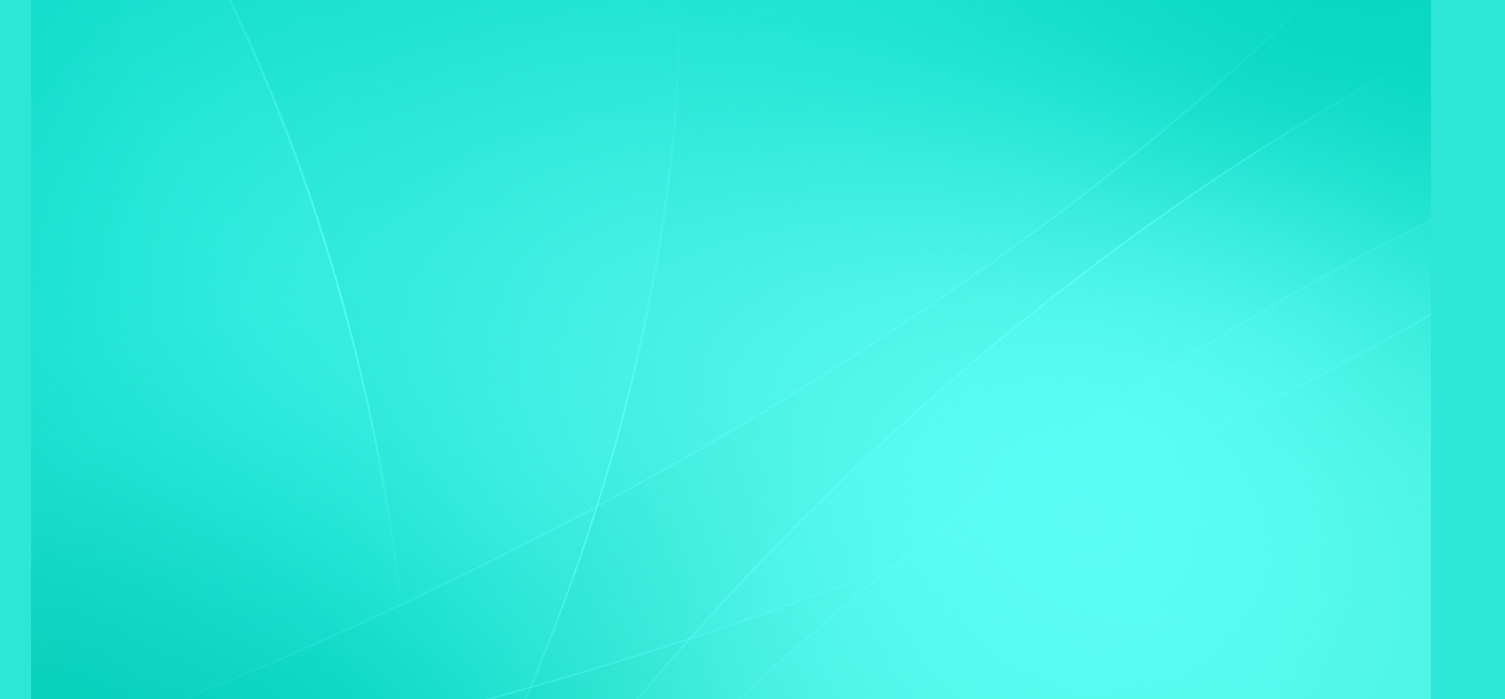
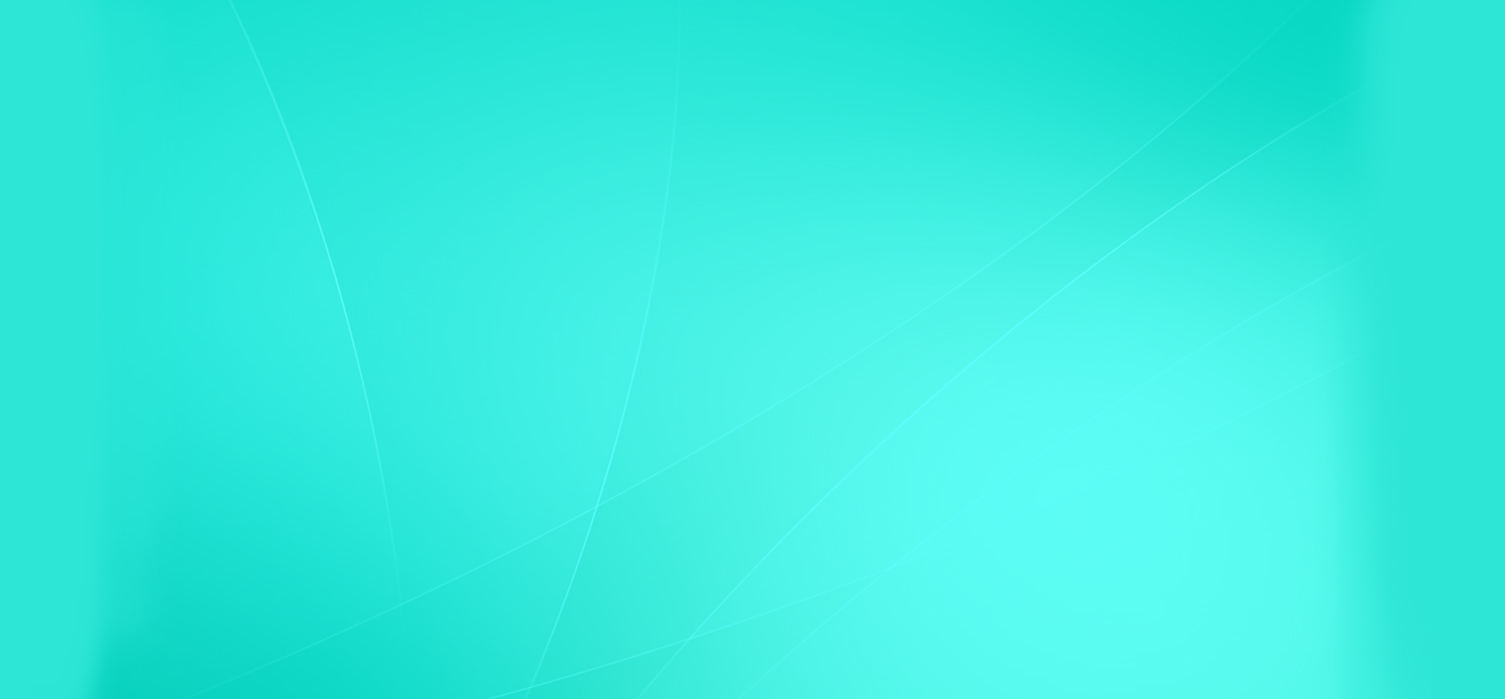
background fixes

diff --git a/css/style.css b/css/style.css
@@ -10,6 +10,27 @@ input:focus {
   position: relative; }
 
 .orange_button {
+  background: #ffc70a;
+  background: -moz-linear-gradient(top, #ffc70a 0%, #ff9600 100%);
+  background: -webkit-gradient(linear, left top, left bottom, color-stop(0%, #ffc70a), color-stop(100%, #ff9600));
+  background: -webkit-linear-gradient(top, #ffc70a 0%, #ff9600 100%);
+  background: -o-linear-gradient(top, #ffc70a 0%, #ff9600 100%);
+  background: -ms-linear-gradient(top, #ffc70a 0%, #ff9600 100%);
+  background: linear-gradient(to bottom, #ffc70a 0%, #ff9600 100%);
+  filter: progid:DXImageTransform.Microsoft.gradient(startColorstr='#ffc70a', endColorstr='#ff9600',GradientType=0 );
+  font-size: 20px;
+  color: white;
+  border: none;
+  border-top: 1px solid #ffe411;
+  border-radius: 5px;
+  line-height: 2;
+  box-shadow: 0px 1px 3px 1px #02264e;
+  text-transform: uppercase;
+  cursor: pointer;
+  padding: 0px 55px;
+  font-family: NeoSansBold; }
+
+.orange_button:hover {
   background: #ff9400;
   background: -moz-linear-gradient(left, #ff9400 0%, #ffc30b 50%, #ff9400 100%);
   background: -webkit-gradient(linear, left top, right top, color-stop(0%, #ff9400), color-stop(50%, #ffc30b), color-stop(100%, #ff9400));
@@ -17,18 +38,7 @@ input:focus {
   background: -o-linear-gradient(left, #ff9400 0%, #ffc30b 50%, #ff9400 100%);
   background: -ms-linear-gradient(left, #ff9400 0%, #ffc30b 50%, #ff9400 100%);
   background: linear-gradient(to right, #ff9400 0%, #ffc30b 50%, #ff9400 100%);
-  filter: progid:DXImageTransform.Microsoft.gradient(startColorstr='#ff9400', endColorstr='#ff9400',GradientType=1 );
-  font-size: 20px;
-  color: white;
-  border: none;
-  border-top: 1px solid #ffe411;
-  border-radius: 5px;
-  line-height: 2 !important;
-  box-shadow: 0px 1px 3px 1px #02264e;
-  text-transform: uppercase;
-  cursor: pointer;
-  padding: 0px 55px;
-  font-family: NeoSansBold; }
+  filter: progid:DXImageTransform.Microsoft.gradient(startColorstr='#ff9400', endColorstr='#ff9400',GradientType=1 ); }
 
 .top_line {
   height: 8px;
@@ -149,7 +159,7 @@ input:focus {
         margin-bottom: 10px;
         border: 1px solid #bfbfbf;
         border-left: none;
-        line-height: 2; }
+        line-height: 2.3; }
       .pick_flat .pick_wrap .request label {
         display: inline-block;
         width: 29px;
@@ -193,6 +203,11 @@ input:focus {
         background: url(/img/request_lock.png) no-repeat 0px center; }
       .pick_flat .pick_wrap .request .clock {
         background: url(/img/request_clock.png) no-repeat 0px center; }
+      .pick_flat .pick_wrap .request .orange_button {
+        display: inline-block;
+        line-height: 1;
+        padding-top: 7px;
+        padding-bottom: 7px; }
     .pick_flat .pick_wrap .discount {
       text-align: center;
       color: white;
@@ -208,17 +223,14 @@ input:focus {
         background-repeat: no-repeat;
         background-position: center center;
         width: 100%;
-        height: 150px;
+        height: 155px;
         top: 0px;
         left: 0px; }
 
 .cooperate {
   background-color: #2ee6d6;
-  background-image: url(/img/cooperate_bg.jpg);
-  background-repeat: no-repeat;
-  background-position: center 270px;
   text-align: center;
-  height: 1218px; }
+  height: 533px; }
   .cooperate .cooperate_header {
     background: url(/img/ribbon.png) no-repeat center 30px;
     height: 90px;
@@ -278,39 +290,45 @@ input:focus {
       font-family: NeoSansUltra;
       width: 900px; }
 
-.flats h3 {
-  font-size: 30px;
-  text-align: left;
-  font-weight: 300;
-  color: white;
-  text-shadow: 1px 1px 2px #2fcab2;
-  margin-top: 20px;
-  margin-left: 180px; }
-.flats h2 {
-  font-size: 28px;
-  font-family: NeoSansUltra;
-  color: #ffd119;
-  text-shadow: 1px 2px 3px #29bdaa;
-  margin-bottom: 20px;
-  text-transform: uppercase;
-  margin-left: 375px;
-  text-align: left; }
-.flats .flat_rooms {
-  background-color: #71f0de;
-  width: 450px;
-  line-height: 90px;
-  display: inline-block;
-  margin: 0px 50px 25px 50px;
-  border-radius: 5px;
-  border: 1px dashed white;
-  font-size: 20px;
-  color: #4d4d4d;
-  font-family: NeoSansBold; }
-  .flats .flat_rooms span {
-    font-size: 45px;
-    color: #ff9500;
-    font-weight: 800;
-    text-shadow: 0px 1px 1px #d8903c; }
+.flats {
+  background-image: url(/img/cooperate_bg.jpg);
+  background-repeat: no-repeat;
+  background-position: center 0px;
+  background-color: #2ee6d6;
+  text-align: center; }
+  .flats h3 {
+    font-size: 30px;
+    text-align: left;
+    font-weight: 300;
+    color: white;
+    text-shadow: 1px 1px 2px #2fcab2;
+    padding-top: 20px;
+    margin-left: 180px; }
+  .flats h2 {
+    font-size: 28px;
+    font-family: NeoSansUltra;
+    color: #ffd119;
+    text-shadow: 1px 2px 3px #29bdaa;
+    margin-bottom: 20px;
+    text-transform: uppercase;
+    margin-left: 375px;
+    text-align: left; }
+  .flats .flat_rooms {
+    background-color: #71f0de;
+    width: 450px;
+    line-height: 90px;
+    display: inline-block;
+    margin: 0px 50px 25px 50px;
+    border-radius: 5px;
+    border: 1px dashed white;
+    font-size: 20px;
+    color: #4d4d4d;
+    font-family: NeoSansBold; }
+    .flats .flat_rooms span {
+      font-size: 45px;
+      color: #ff9500;
+      font-weight: 800;
+      text-shadow: 0px 1px 1px #d8903c; }
 
 .partners {
   height: 550px;

diff --git a/css/style.sass b/css/style.sass
@@ -10,6 +10,27 @@ input:focus
 	position: relative
 
 .orange_button
+	background: rgb(255,199,10) /* Old browsers */
+	background: -moz-linear-gradient(top,  rgba(255,199,10,1) 0%, rgba(255,150,0,1) 100%) /* FF3.6+ */
+	background: -webkit-gradient(linear, left top, left bottom, color-stop(0%,rgba(255,199,10,1)), color-stop(100%,rgba(255,150,0,1))) /* Chrome,Safari4+ */
+	background: -webkit-linear-gradient(top,  rgba(255,199,10,1) 0%,rgba(255,150,0,1) 100%) /* Chrome10+,Safari5.1+ */
+	background: -o-linear-gradient(top,  rgba(255,199,10,1) 0%,rgba(255,150,0,1) 100%) /* Opera 11.10+ */
+	background: -ms-linear-gradient(top,  rgba(255,199,10,1) 0%,rgba(255,150,0,1) 100%) /* IE10+ */
+	background: linear-gradient(to bottom,  rgba(255,199,10,1) 0%,rgba(255,150,0,1) 100%) /* W3C */
+	filter: progid:DXImageTransform.Microsoft.gradient( startColorstr='#ffc70a', endColorstr='#ff9600',GradientType=0 ) /* IE6-9 */
+	font-size: 20px
+	color: #fff
+	border: none
+	border-top: 1px solid #ffe411
+	border-radius: 5px
+	line-height: 2
+	box-shadow: 0px 1px 3px 1px #02264e
+	text-transform: uppercase
+	cursor: pointer
+	padding: 0px 55px
+	font-family: NeoSansBold
+
+.orange_button:hover
 	background: rgb(255,148,0) /* Old browsers */
 	background: -moz-linear-gradient(left,  rgba(255,148,0,1) 0%, rgba(255,195,11,1) 50%, rgba(255,148,0,1) 100%) /* FF3.6+ */
 	background: -webkit-gradient(linear, left top, right top, color-stop(0%,rgba(255,148,0,1)), color-stop(50%,rgba(255,195,11,1)), color-stop(100%,rgba(255,148,0,1))) /* Chrome,Safari4+ */
@@ -18,17 +39,6 @@ input:focus
 	background: -ms-linear-gradient(left,  rgba(255,148,0,1) 0%,rgba(255,195,11,1) 50%,rgba(255,148,0,1) 100%) /* IE10+ */
 	background: linear-gradient(to right,  rgba(255,148,0,1) 0%,rgba(255,195,11,1) 50%,rgba(255,148,0,1) 100%) /* W3C */
 	filter: progid:DXImageTransform.Microsoft.gradient( startColorstr='#ff9400', endColorstr='#ff9400',GradientType=1 ) /* IE6-9 */
-	font-size: 20px
-	color: #fff
-	border: none
-	border-top: 1px solid #ffe411
-	border-radius: 5px
-	line-height: 2 !important
-	box-shadow: 0px 1px 3px 1px #02264e
-	text-transform: uppercase
-	cursor: pointer
-	padding: 0px 55px
-	font-family: NeoSansBold
 
 .top_line
 	height: 8px
@@ -153,7 +163,7 @@ input:focus
 				margin-bottom: 10px
 				border: 1px solid #bfbfbf
 				border-left: none
-				line-height: 2
+				line-height: 2.3
 			label
 				display: inline-block
 				width: 29px
@@ -197,6 +207,11 @@ input:focus
 				background: url(/img/request_lock.png) no-repeat 0px center
 			.clock
 				background: url(/img/request_clock.png) no-repeat 0px center
+			.orange_button
+				display: inline-block
+				line-height: 1
+				padding-top: 7px
+				padding-bottom: 7px
 		.discount
 			text-align: center
 			color: #fff
@@ -212,16 +227,13 @@ input:focus
 				background-repeat: no-repeat
 				background-position: center center
 				width: 100%
-				height: 150px
+				height: 155px
 				top: 0px
 				left: 0px
 .cooperate
 	background-color: #2ee6d6
-	background-image: url(/img/cooperate_bg.jpg)
-	background-repeat: no-repeat
-	background-position: center 270px
 	text-align: center
-	height: 1218px
+	height: 533px
 	.cooperate_header
 		background: url(/img/ribbon.png) no-repeat center 30px
 		height: 90px
@@ -281,13 +293,18 @@ input:focus
 			width: 900px
 
 .flats
+	background-image: url(/img/cooperate_bg.jpg)
+	background-repeat: no-repeat
+	background-position: center 0px
+	background-color: #2ee6d6
+	text-align: center
 	h3
 		font-size: 30px
 		text-align: left
 		font-weight: 300
 		color: #fff
 		text-shadow: 1px 1px 2px #2fcab2
-		margin-top: 20px
+		padding-top: 20px
 		margin-left: 180px
 	h2
 		font-size: 28px

diff --git a/index.html b/index.html
@@ -120,6 +120,7 @@
 			</div>
 		</div>
 		<span class="top_line"></span>
+	</div>
 		<div class="consult">
 			<div class="width_960">
 				<div class="order_consult">
@@ -129,17 +130,16 @@
 				</div>
 			</div>
 		</div>
-		<span class="bot_line"></span>
 		<div class="flats">
+		<span class="bot_line"></span>
 			<div class="width_960">
 				<h3>Большой выбор квартир</h3><h2>Во всех районах города</h2>
 				<p class="flat_rooms">Однокомнатные квартиры от <span>30</span> кв.м</p>
 				<p class="flat_rooms">Двухкомнатные квартиры от <span>45</span> кв.м</p>
 				<p class="flat_rooms">Трехкомнатные квартиры от <span>60</span> кв.м</p>
 			</div>
+			<span class="top_line"></span>
 		</div>
-		<span class="top_line"></span>
-	</div>
 	<div class="partners">
 		<div class="width_960">
 			<h3>Являемся партнерами</h3><h2>Крупнейших партнеров страны</h2>
